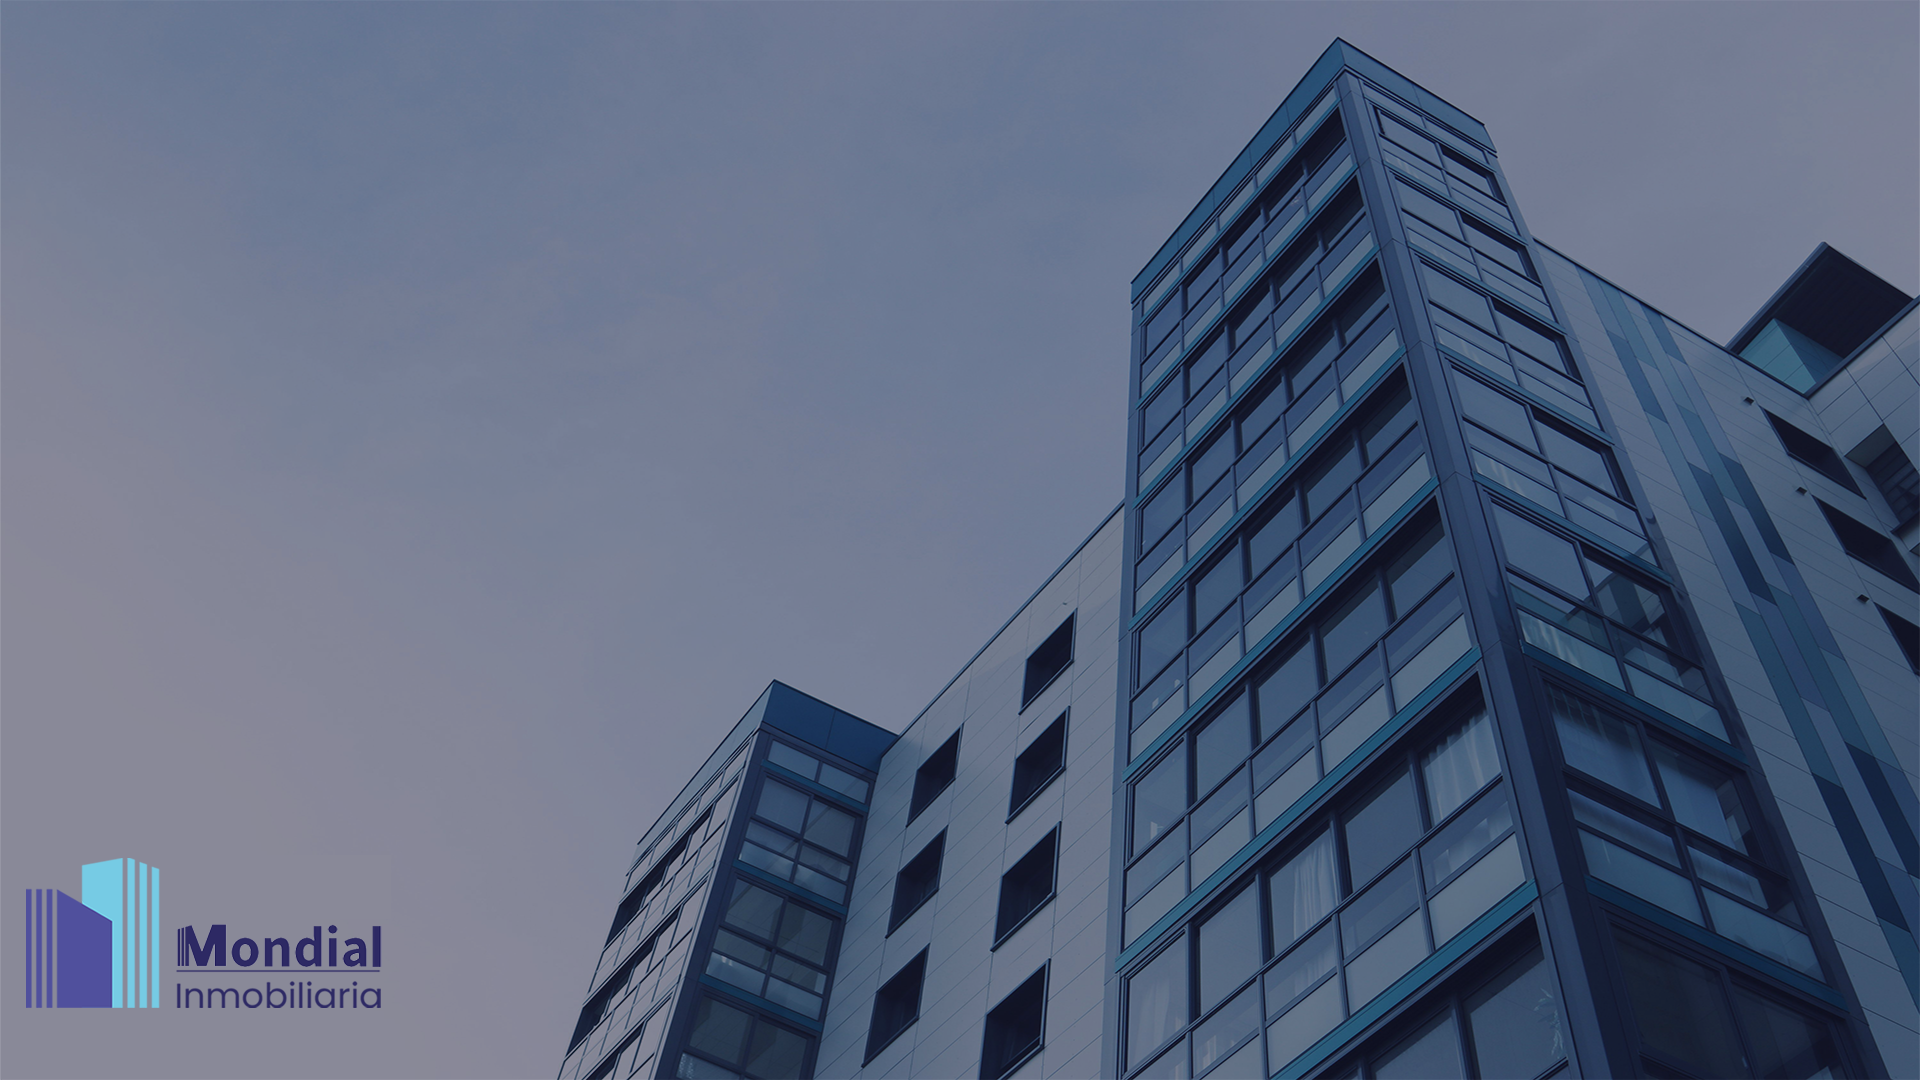
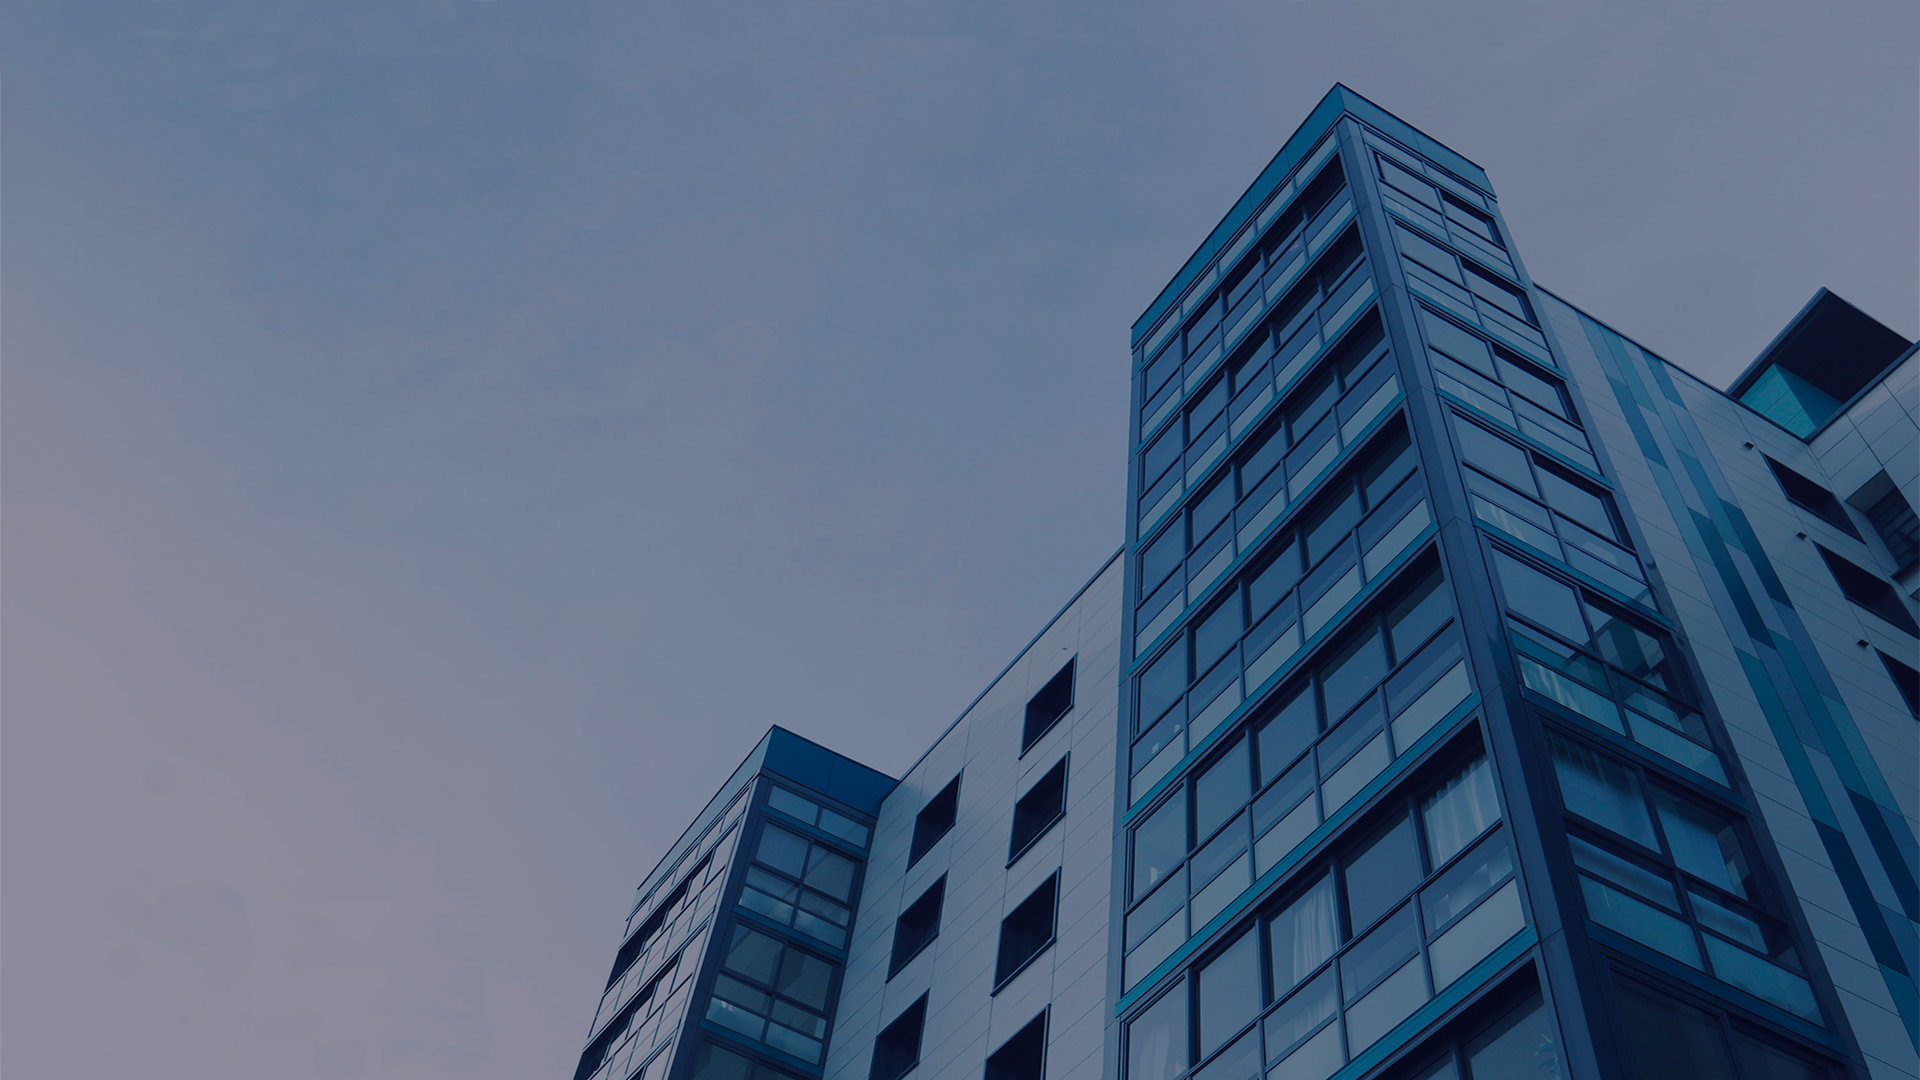
Fix: stiles

Changed region(s): [[0.2812, 0.0306, 1.0, 1.0], [0.0, 0.7944, 0.2188, 0.9472]]

diff --git a/src/components/header/HeroComponent.jsx b/src/components/header/HeroComponent.jsx
@@ -1,32 +1,31 @@
 import React from 'react'
 import heroStyles from '../../styles/heroComponentStyles'
 import heroimg from '../../assets/img/Wallpaper.png'
-import mondial from '../../assets/img/Mondial-inmobiliaria.png'
-import mondialLogo from '../../assets/logo/isotypeMondial.png'
+import mondial from '../../assets/logo/imagotipo.png'
+import { LinkComponent } from '../navigation/LinkComponent'
 
 export const HeroComponent = () => {
   return ( 
     <div className={heroStyles.heroContainer}>
       <img className={heroStyles.bgImg} src={heroimg} alt="hero image" />
-      <div className={heroStyles.bgFadeWhite}>
-        <div className={heroStyles.heroSec}>
-          <img
-            className={heroStyles.logoMondial}
-            src={mondialLogo}
-            alt="Mondial logo"
-          />
-          <div className='flex flex-col items-center'>
+      
+        <div className={`${heroStyles.heroSec} min-md:w-2xl text-white px-10`}>
+          <h1 className='text-5xl font-medium'>Encuentra tu hogar ideal con nosotros</h1>
+          <h2 className='pt-5 italianno-regular text-4xl ' >25 años a su servicio</h2>
+          <div className='pt-8'>
+            <LinkComponent src='/contact' desc='Contáctenos!' />
+          </div>
+          <div className='flex flex-col pt-28'>
             <img
             className={heroStyles.mondialText}
             src={mondial}
             alt="mondial"
             />
-            <h2 className='font-extrabold text-indigo-900 pt-5 italianno-regular text-4xl ' >25 años a su servicio</h2>
+            
           </div>
           
         </div>
         
       </div>
-    </div>
   )
 }

diff --git a/src/components/header/MondialSlogan.jsx b/src/components/header/MondialSlogan.jsx
@@ -5,16 +5,26 @@ import imgSlogan from '../../assets/img/mondial-slogan.jpg'
 export const MondialSlogan = () => {
   return (
 
-    <div className='bg-[linear-gradient(180deg,rgba(255,255,255,1)_0%,rgba(222,222,222,1)_7%,rgba(222,222,222,1)_93%,rgba(255,255,255,1)_100%)] ' >
-      <div className='flex max-md:flex-col px-5 py-15 gap-5' >
-        <div>
-          <img className='rounded-2xl' src={imgSlogan} alt="image mondial slogan" />
+    <div className='bg-[] ' >
+
+      <div className='flex flex-col' >
+
+        <h2>Una vivienda es solo estructura, pero un hogar es donde late el corazón.</h2>
+
+        <div className='flex max-md:flex-col px-5 py-15 gap-5'>
+
+          <div>
+            <img className='rounded-2xl' src={imgSlogan} alt="image mondial slogan" />
+          </div>
+          
+          <div className='flex items-center' >
+            <p className='text-justify'>
+              {dataMondial.text}
+            </p>
+          </div>
+
         </div>
-        <div className='flex items-center' >
-          <p className='text-justify'>
-            {dataMondial.text}
-          </p>
-        </div>
+
       </div>
 
     </div>

diff --git a/index.html b/index.html
@@ -9,7 +9,10 @@
     <!-- Importación Google Fonts -->
     <link rel="preconnect" href="https://fonts.googleapis.com">
     <link rel="preconnect" href="https://fonts.gstatic.com" crossorigin>
-    <link href="https://fonts.googleapis.com/css2?family=Italianno&family=Roboto+Mono:ital,wght@0,100..700;1,100..700&display=swap" rel="stylesheet">
+    <link href="https://fonts.googleapis.com/css2?family=Poppins:ital,wght@0,100;0,200;0,300;0,400;0,500;0,600;0,700;0,800;0,900;1,100;1,200;1,300;1,400;1,500;1,600;1,700;1,800;1,900&display=swap" rel="stylesheet">
+    <link rel="preconnect" href="https://fonts.googleapis.com">
+    <link rel="preconnect" href="https://fonts.gstatic.com" crossorigin>
+    <link href="https://fonts.googleapis.com/css2?family=Satisfy&display=swap" rel="stylesheet">
     
     <title>Mondial Inmobiliaria</title>
   </head>

diff --git a/src/components/navigation/MenuLinksComponent.jsx b/src/components/navigation/MenuLinksComponent.jsx
@@ -1,5 +1,5 @@
 import React from 'react'
-import { Link } from 'react-router-dom'
+import { NavLink } from 'react-router-dom'
 import menuLinks from '../../data/data.links'
 import menuLinksStyles from '../../styles/menuLinksComponentStyles'
 
@@ -9,18 +9,10 @@ export const MenuLinksComponent = ({ func = '', contStyles = menuLinksStyles.lin
 
   return (
     <nav className={contStyles}>    
-      {
-        menuItems.map((item) => (
-          <Link 
-            key={item.label}
-            to={item.to}
-            className={linkStyle}
-            onClick={func}
-          >
-            {item.label}
-          </Link>
-        ))
-      }
+      <NavLink to='/' >Inicio</NavLink>
+      <NavLink to='/us' >Nosotros</NavLink>
+      <NavLink to='/news' >Blog</NavLink>
+      <NavLink to='/contact'>Contacto</NavLink>
     </nav>
   )
 }

diff --git a/src/components/home/CardHomeComponent.jsx b/src/components/home/CardHomeComponent.jsx
@@ -1,0 +1,29 @@
+import React from 'react'
+
+// Componente que se renderiza en /pages/HomePage.jsx
+
+export const CardHomeComponent = ({ info }) => {
+  return (
+    <div >
+      <div >
+        <img 
+            src={`/carousel/image-homeCard${info.id}.jpg`} 
+            alt={info.title} 
+            
+        />
+      </div>
+      
+      <div >
+        <h3 className={cardCarouselStyles.h3Styles}>
+          {info.title}
+        </h3>
+        <p className={cardCarouselStyles.textStyles}>
+          {info.description}
+        </p>
+        <div className={cardCarouselStyles.linkComponentStyles}>
+          <LinkComponent src={info.linkData} desc='Ver más'/>  
+        </div>
+      </div>
+    </div>
+  )
+}

diff --git a/src/styles/navBarComponentStyles.js b/src/styles/navBarComponentStyles.js
@@ -1,6 +1,6 @@
 const navBarStyles = {
-    navBarContainer: 'p-2 bg-blue-900 flex justify-between items-center text-white relative',
-    logo: 'h-15 w-auto cursor-pointer hover:opacity-80 transition-all duration-500 rounded-4xl',
+    navBarContainer: 'p-2 flex justify-between items-center relative',
+    logo: 'h-15 w-auto cursor-pointer hover:opacity-80 transition-all duration-500 px-6',
     hamburgerMenu: 'w-7 cursor-pointer transition-all ease-in-out duration-500 hover:scale-110',
     hamburgerButton: 'lg:hidden flex flex-col w-8 h-8 justify-center items-end space-y-1.5 z-500 px-5',
     hamburgerLine: 'block w-6 h-0.5 bg-white rounded transition-all duration-300',

diff --git a/src/pages/HomePage.jsx b/src/pages/HomePage.jsx
@@ -1,15 +1,15 @@
 import React from 'react'
 import { HeroComponent } from '../components/header/HeroComponent'
-import { CarouselComponent } from '../components/carousel/CarouselComponent'
 import { MondialSlogan } from '../components/header/MondialSlogan'
+import { CardHomeComponent } from '../components/home/CardHomeComponent'
 
 
 export const HomePage = () => {
   return (
     <div>
       <HeroComponent />
-      <h2 className='text-center italic pt-8'>Grupo Inmobiliario especialista en el mercado residencial en Murcia.</h2>
-      <CarouselComponent />
+      
+      
       <MondialSlogan />
     </div>
   )

diff --git a/src/styles/heroComponentStyles.js b/src/styles/heroComponentStyles.js
@@ -1,8 +1,8 @@
 const heroStyles = {
     heroContainer : 'relative h-screen w-full',
     bgImg : 'absolute inset-0 w-full h-full object-cover',
-    bgFadeWhite : 'absolute inset-0 bg-[linear-gradient(0deg,rgba(255,255,255,1)_0%,rgba(255,255,0,0)_65%)]',
-    heroSec : 'relative h-full w-full flex items-center justify-center gap-8 max-sm:flex-col',
+    bgFadeWhite : 'absolute inset-0',
+    heroSec : 'relative h-full w-full flex justify-center gap-3 flex-col',
     logoMondial : 'max-sm:w-1/2 w-1/4 h-auto object-contain rounded-full shadow-lg bg-white p-4',
     mondialText : 'w-1/2 h-auto object-contain',
 }

diff --git a/src/components/footer/FormComponent.jsx b/src/components/footer/FormComponent.jsx
@@ -99,7 +99,7 @@ export const FormComponent = () => {
         <div className={formStyles.inputContainer}>
           <label className={formStyles.label} htmlFor="subject">Tipo de cliente</label>
           <select className={formStyles.input} name="subject" id="subject" required>
-            <option value="">Selecciona un tipo</option>
+            <option className={formStyles.options} value="">Selecciona un tipo</option>
             {clients.map((client) => (
               <option className={formStyles.options} key={client.value} value={client.value}>
                 {client.type}

diff --git a/src/App.jsx b/src/App.jsx
@@ -1,12 +1,10 @@
 import { Routes, Route } from 'react-router-dom'
 import './App.css'
-//import appStyles from './styles/appStyles'
 import { NavBarComponent } from './components/navigation/NavBarComponent'
 import { HomePage } from './pages/HomePage'
 import { BuyPage } from './pages/BuyPage'
 import { SellPage } from './pages/SellPage'
 import { ContactPage } from './pages/ContactPage'
-
 import { NewsPage } from './pages/NewsPage'
 import { NewsDetailPage } from './pages/NewsDetailPage'
 import { RentPage } from './pages/RentPage'

diff --git a/src/components/home/CardHomeContainerComponent.jsx b/src/components/home/CardHomeContainerComponent.jsx
@@ -1,0 +1,19 @@
+import React from 'react'
+import info from '../../data/dataCarousel'
+import { CardHomeComponent } from './CardHomeComponent'
+import { NavLink } from 'react-router-dom'
+
+export const CardHomeContainerComponent = () => {
+  return (
+    <div>
+        {
+            info.map(data => (
+                <NavLink key={data.id} to={data.linkData} >
+                    <CardHomeComponent info={data} />
+                </NavLink>
+                 
+            ))
+        }
+    </div>
+  )
+}

diff --git a/src/styles/linkComponentStyles.js b/src/styles/linkComponentStyles.js
@@ -1,5 +1,5 @@
 const linkStyles = {
-    baseStyles : 'bg-blue-700 text-white text-center rounded-2xl p-2 min-w-40 max-w-50 hover:bg-blue-600 hover:scale-110 transition-all ease-in-out duration-700 font-bold',
+    baseStyles : 'bg-[#312C85] text-white text-center rounded-2xl p-2 min-w-40 max-w-50 hover:bg-[#2D2964] hover:scale-110 transition-all ease-in-out duration-700 font-bold',
 }
 
 export default linkStyles;
